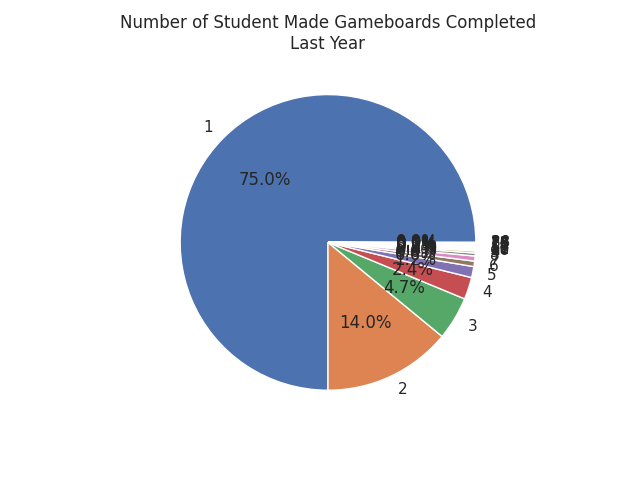
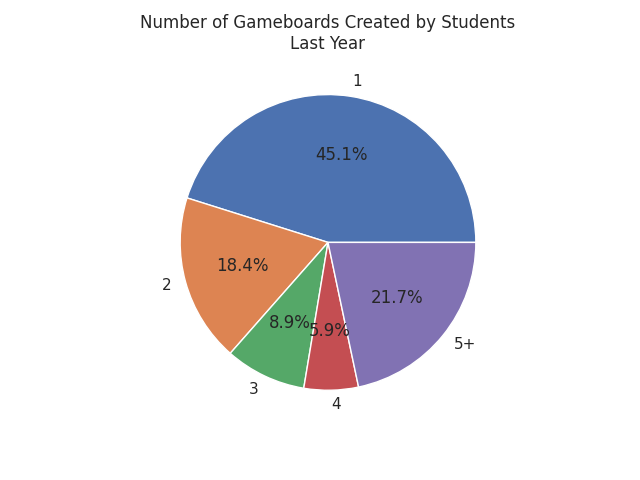
The final results

diff --git a/pretty_graphs.py b/pretty_graphs.py
@@ -16,7 +16,7 @@ def plot_percentages(data: pd.DataFrame, out: str, name: str):
     sizes = data["sizes"]
 
     plt.pie(sizes, labels=labels, autopct="%1.1f%%")
-    plt.title(f"Number of Student Made Gameboards Completed\n{name}")
+    plt.title(f"Number of Gameboards Created by Students\n{name}")
 
     plt.show()
     plt.savefig(out)

diff --git a/README.md b/README.md
@@ -243,3 +243,77 @@ GROUP BY average_percentage
 ```
 
 The results of these are presented in the scatter plots.
+
+## Statistics breakdown
+
+Changing the query to select the number of students that created a gameboard so that the number of gameboards created is
+recorded. The number of students can then be grouped by how many gameboards they created as the majority make 1
+gameboard
+
+```
+SELECT num_gameboards, COUNT(owner_user_id)
+FROM users_and_gameboards
+WHERE num_gameboards > 0
+GROUP BY num_gameboards
+```
+
+### Statistics
+
+Pie charts have been generated from this data and the `csv`s can also be located in the relavent folder.
+Only last year was considered as Ada is less than a year and Physics queries took longer than time permitted.
+
+```
+ADA
+Range   1 Gameboard     2+ Gameboards
+ADA     335 (51.1%)     321 (48.9%)     % of gameboards made
+PHYSICS 6724 (45.1%)    8173 (54.9%)
+```
+
+The split is fairly close on students that make 1 gameboard compared to those that make multiple. Those that make
+multiple are more likely to be students that actively use the service.
+
+**Note that this is ~50% of ~10% so only 5% actively make gameboards**.
+
+## Number of gameboards completed
+
+To see how many are actually completed rather than just seeing if students complete gameboards the gameboard completion
+query can be modified.
+First a table containing all the gameboards that were fully completed and storing them as `student_id, gameboard_id`
+pairs
+
+```
+correct_gameboard_parts AS (
+    SELECT student_id, gameboard_id, SUM(CASE WHEN correct THEN 1 ELSE 0 END) AS num_correct,
+        COUNT(student_gameboard_parts.question_id) AS total
+    FROM student_gameboard_parts
+    JOIN question_attempts ON student_gameboard_parts.question_id=question_attempts.question_id
+        AND student_gameboard_parts.student_id=question_attempts.user_id
+    GROUP BY student_id, gameboard_id)
+```
+
+Aggregating the number of gameboards per student and then grouping by this aggregate gives the number of students that
+completed `x` gameboards
+
+```
+SELECT num_gameboards, COUNT(student_id)
+FROM (
+    SELECT student_id, COUNT(gameboard_id) AS num_gameboards
+    FROM correct_gameboard_parts
+    GROUP BY student_id) AS num_correct_gameboards
+GROUP BY num_gameboards
+```
+
+### Statistics
+
+```
+ADA
+Range   1 Gameboard     2+ Gameboards
+ADA     102 (79.1%)     27 (21.9%)     % of gameboards completed
+PHYSICS 2550 (75%)      850 (25%)
+```
+
+As seen in the previous statistics very few students actually attempt gameboards at all. Of those that do we see here
+that a marginal number actively create multiple gameboards to do themselves and instead make one or just attempt one
+self-made one.
+
+**Note this is again ~25% of only ~5% of active students, so ~1% of users actively use gameboards**
